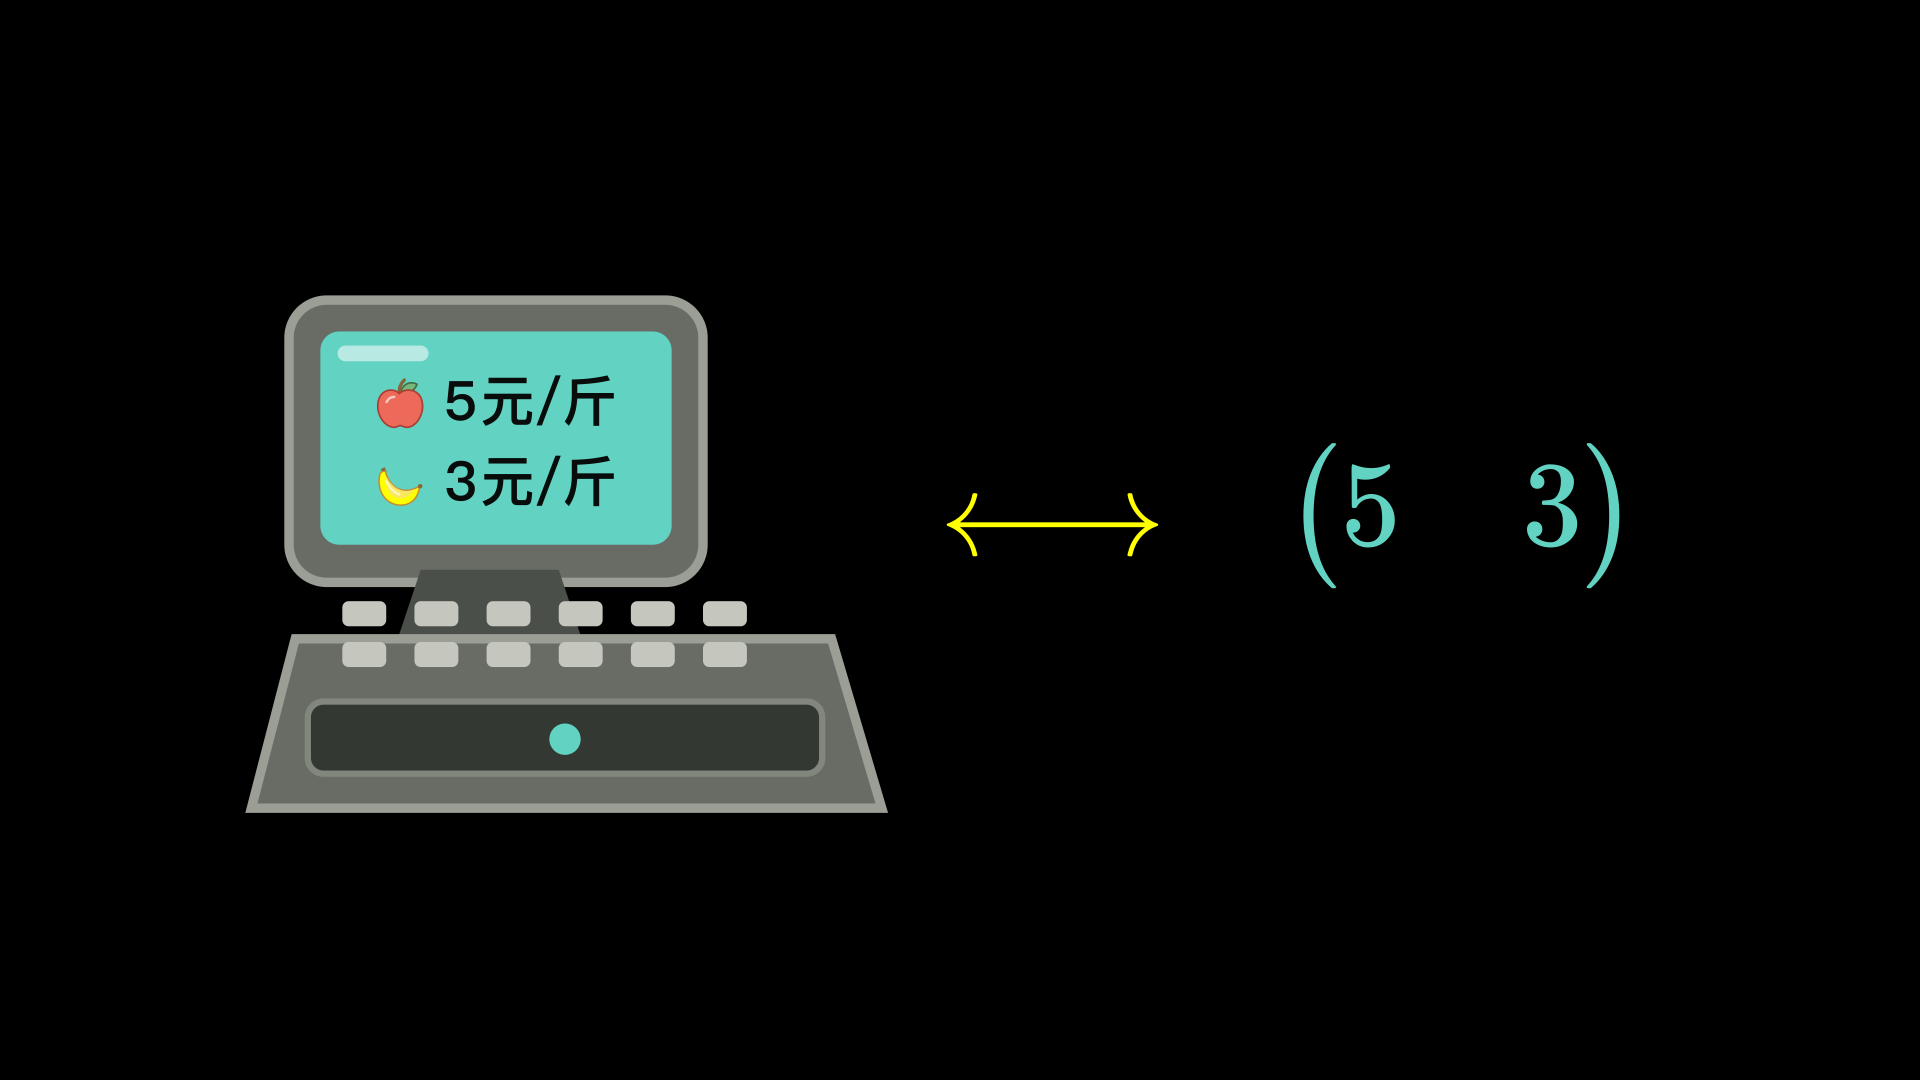
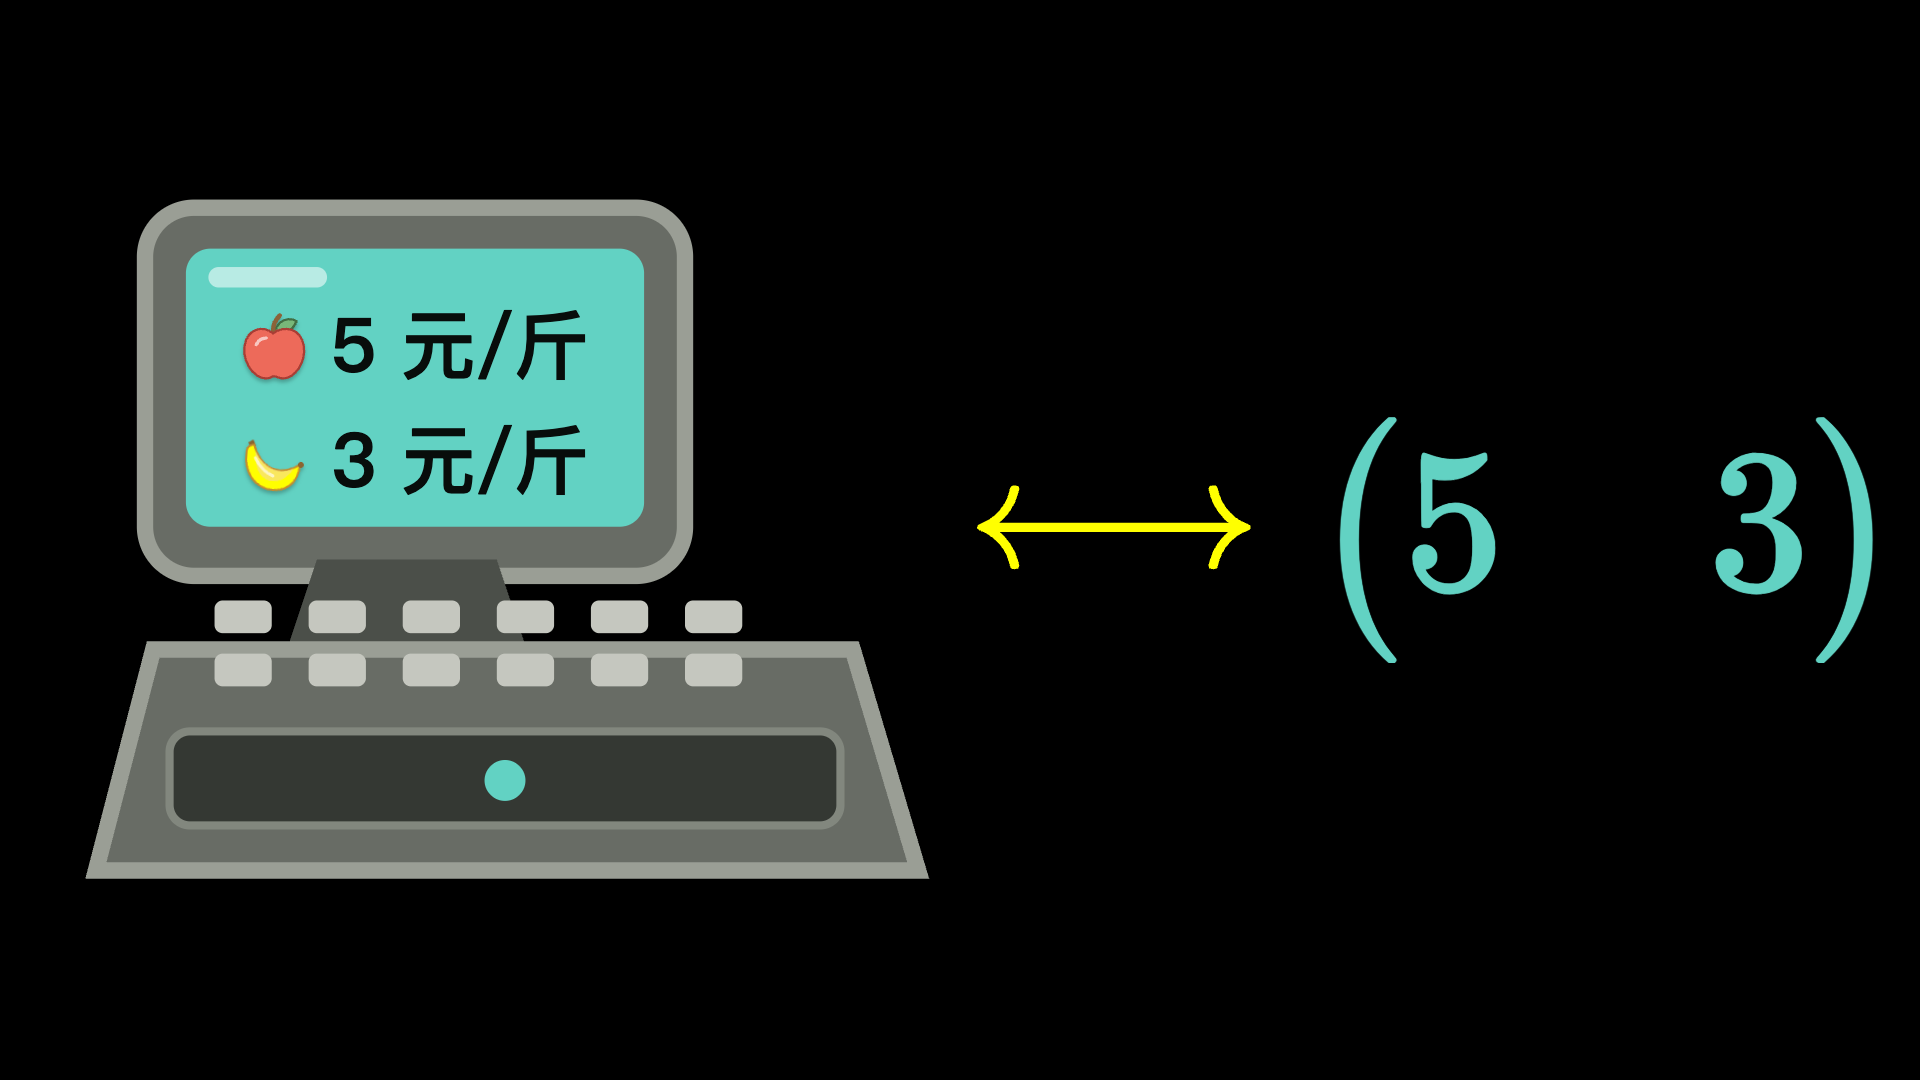
Add PNG video covers built from Scene components
Covers are authored as `cover/Cover.tsx` plus `cover/cover.css` in each
subproject, reusing existing components so the thumbnail stays in sync
with the teaching graphics. The entry point loads the cover only when
`?cover=1` is present, keeping cover styles out of the normal player.

Add `scripts/export-cover.mjs` to build, preview, verify (KaTeX, fonts,
object bounds, scrolling, console) and screenshot a 1920x1080 PNG, and
expose it as `npm run cover:export` in each project. Usage is documented
in `docs/video-covers.md`.

Changed region(s): [[0.0312, 0.1833, 0.5, 0.825], [0.5, 0.3972, 0.8438, 0.6111], [0.875, 0.3972, 1.0, 0.6111]]

diff --git a/basis-coordinates/cover/cover.css b/basis-coordinates/cover/cover.css
@@ -1,0 +1,23 @@
+/* 封面只负责构图，图形外观由现有 Scene 组件提供。 */
+.cover-preview { position:fixed; inset:0; display:grid; place-items:center; background:#000; }
+.cover-frame { position:relative; width:min(100vw, calc(100vh * 16 / 9)); aspect-ratio:16 / 9; container-type:inline-size; }
+.video-cover { --coral:#ed6a5a; --yellow:#ffff00; position:absolute; width:1920px; height:1080px; background:#000; color:#f4efe1; transform:scale(calc(100cqw / 1920px)); transform-origin:top left; }
+.video-cover *, .video-cover *::before, .video-cover *::after { animation:none !important; transition:none !important; }
+.video-cover .cover-space { position:absolute; border:3px solid; border-radius:50%; }
+.video-cover .cover-space-label { position:absolute; left:50%; top:-65px; transform:translateX(-50%); padding:0 24px; background:#000; font-size:82px; }
+.video-cover .cover-bags { color:#ffff00; border-color:#ffff00a6; }
+.video-cover .cover-checkouts { color:#62d2c3; border-color:#62d2c3a6; }
+.video-cover .cover-object { position:absolute; display:grid; place-items:center; }
+.video-cover .checkout-icon { width:100%; max-width:none; }
+.row-vector-cover .cover-machine { position:absolute; left:55px; top:175px; width:900px; }
+.row-vector-cover .probe-prices { left:146.7px; top:125.2px; width:422.6px; gap:22px; color:#080d0b; }
+.row-vector-cover .probe-price { gap:22px; font-size:62px; }
+.row-vector-cover .probe-prices .fruit { width:72px; height:72px; }
+/* 只覆盖屏幕内的文字字体，右侧行向量仍使用 KaTeX 数学字体。 */
+.row-vector-cover .probe-price .katex .textbf { font-family:"PingFang SC", "Noto Sans CJK SC", "Microsoft YaHei", sans-serif; font-weight:700; }
+.row-vector-cover .cover-correspondence { position:absolute; left:970px; top:425px; font-size:128px; color:#ffff00; }
+.row-vector-cover .cover-row { position:absolute; left:1310px; top:405px; font-size:168px; color:#62d2c3; }
+
+.row-vector-cover .cover-correspondence .katex { -webkit-text-stroke:3px currentColor; }
+.row-vector-cover .cover-row .katex { -webkit-text-stroke:2px currentColor; }
+.row-vector-cover .checkout-screen-shell, .row-vector-cover .checkout-body { stroke-width:4px; }

diff --git a/double-dual/cover/cover.css b/double-dual/cover/cover.css
@@ -1,0 +1,23 @@
+/* 封面只负责构图，图形外观由现有 Scene 组件提供。 */
+.cover-preview { position:fixed; inset:0; display:grid; place-items:center; background:#000; }
+.cover-frame { position:relative; width:min(100vw, calc(100vh * 16 / 9)); aspect-ratio:16 / 9; container-type:inline-size; }
+.video-cover { --coral:#ed6a5a; --yellow:#ffff00; position:absolute; width:1920px; height:1080px; background:#000; color:#f4efe1; transform:scale(calc(100cqw / 1920px)); transform-origin:top left; }
+.video-cover *, .video-cover *::before, .video-cover *::after { animation:none !important; transition:none !important; }
+.video-cover .cover-space { position:absolute; border:10px solid; border-radius:50%; }
+.video-cover .cover-space-label { position:absolute; left:50%; top:-118px; transform:translateX(-50%); padding:0 30px; background:#000; font-size:150px; }
+.video-cover .cover-bags { color:#ffff00; border-color:#ffff00; }
+.video-cover .cover-checkouts { color:#62d2c3; border-color:#62d2c3; }
+.video-cover .cover-object { position:absolute; display:grid; place-items:center; }
+.video-cover .checkout-icon { width:100%; max-width:none; }
+.double-dual-cover .cover-space { top:260px; width:560px; height:650px; border-radius:48%; }
+.double-dual-cover .cover-mystery { color:#ba91ef; border-color:#ba91ef; }
+.double-dual-cover .cover-object { inset:100px 45px 45px; }
+.double-dual-cover .fruit-bag { transform:scale(1.85); }
+.double-dual-cover .checkout-icon { width:435px; }
+.double-dual-cover .cover-question { font-size:360px; font-weight:700; }
+
+/* 320px 缩略图下仍保留清晰轮廓；仅增强封面，不改 Scene。 */
+.video-cover .cover-space-label .katex { -webkit-text-stroke:1.5px currentColor; }
+.video-cover .fruit-bag { border-width:6px; border-top:0; }
+.video-cover .bag-handle { border-width:6px; border-bottom:0; }
+.video-cover .checkout-screen-shell, .video-cover .checkout-body { stroke-width:4px; }

diff --git a/dual-space/cover/cover.css b/dual-space/cover/cover.css
@@ -1,0 +1,21 @@
+/* 封面只负责构图，图形外观由现有 Scene 组件提供。 */
+.cover-preview { position:fixed; inset:0; display:grid; place-items:center; background:#000; }
+.cover-frame { position:relative; width:min(100vw, calc(100vh * 16 / 9)); aspect-ratio:16 / 9; container-type:inline-size; }
+.video-cover { --coral:#ed6a5a; --yellow:#ffff00; position:absolute; width:1920px; height:1080px; background:#000; color:#f4efe1; transform:scale(calc(100cqw / 1920px)); transform-origin:top left; }
+.video-cover *, .video-cover *::before, .video-cover *::after { animation:none !important; transition:none !important; }
+.video-cover .cover-space { position:absolute; border:10px solid; border-radius:50%; }
+.video-cover .cover-space-label { position:absolute; left:50%; top:-118px; transform:translateX(-50%); padding:0 30px; background:#000; font-size:150px; }
+.video-cover .cover-bags { color:#ffff00; border-color:#ffff00; }
+.video-cover .cover-checkouts { color:#62d2c3; border-color:#62d2c3; }
+.video-cover .cover-object { position:absolute; display:grid; place-items:center; }
+.video-cover .checkout-icon { width:100%; max-width:none; }
+.dual-space-cover .cover-space { top:175px; width:820px; height:820px; }
+.dual-space-cover .cover-bag { width:320px; height:285px; }
+.dual-space-cover .cover-bag > .fruit-bag { transform:scale(1.4); }
+.dual-space-cover .cover-checkout { width:325px; height:285px; }
+
+/* 320px 缩略图下仍保留清晰轮廓；仅增强封面，不改 Scene。 */
+.video-cover .cover-space-label .katex { -webkit-text-stroke:1.5px currentColor; }
+.video-cover .fruit-bag { border-width:6px; border-top:0; }
+.video-cover .bag-handle { border-width:6px; border-bottom:0; }
+.video-cover .checkout-screen-shell, .video-cover .checkout-body { stroke-width:4px; }

diff --git a/basis-coordinates/scenes/CheckoutBasisScene.tsx b/basis-coordinates/scenes/CheckoutBasisScene.tsx
@@ -1,12 +1,12 @@
 import { CheckoutIcon } from "../components/CheckoutIcon";
 import { FruitBag } from "../components/FruitBag";
-import { FruitIcon } from "../components/FruitIcon";
+import { UnitPrices } from "../components/UnitPrices";
+import { basisPrices as prices } from "../lib/math/prices";
 import { MathFormula } from "../components/MathFormula";
 import { basis, type Bag } from "../lib/math/bags";
 import type { SceneProps } from "../lib/scenes/types";
 import "./CheckoutBasisScene.css";
 
-const prices = { apples: 5, bananas: 3 };
 const quote = (bag: Bag) => bag.apples * prices.apples + bag.bananas * prices.bananas;
 const u = { apples: 2, bananas: 1 }, v = { apples: 1, bananas: 2 };
 function Transaction({ bag }: { bag: Bag }) {
@@ -34,12 +34,7 @@ export function CheckoutBasisScene({ step }: SceneProps) {
       </div>
     </div> : <>
       <div className="probe-machine"><CheckoutIcon accent="#62d2c3" largeScreen />
-        {step >= 2 && <div className="probe-prices" data-role="internal-prices">
-          {(["apple", "banana"] as const).map((kind, index) => <div className="probe-price" key={kind} data-role={`unit-price-${kind}`}>
-            <span className={`fruit ${kind}`}><FruitIcon kind={kind} /></span>
-            <MathFormula latex={`${step >= (index === 0 ? 5 : 8) ? Object.values(prices)[index] : "?"}\\,\\text{元/斤}`} />
-          </div>)}
-        </div>}
+        {step >= 2 && <UnitPrices apples={step >= 5 ? prices.apples : null} bananas={step >= 8 ? prices.bananas : null} />}
         {step >= 3 && <>
         <div className="probe-tray" data-role="checkout-tray" />
         <div className="probe-tray-bag probe-basis-bag" key={second ? "second" : "first"} data-role="probe-bag" data-basis={second ? "2" : "1"}>

diff --git a/dual-space/cover/Cover.tsx b/dual-space/cover/Cover.tsx
@@ -1,0 +1,26 @@
+import { FruitBag } from "../scenes/FruitBag";
+import { CheckoutIcon } from "../components/CheckoutIcon";
+import { MathFormula } from "../components/MathFormula";
+import "./cover.css";
+
+// 位置采用 1920×1080 设计坐标；组件自身的大小与配色来自教学页面。
+const positions = [{ x: 220, y: 285 }, { x: 580, y: 285 }, { x: 400, y: 610 }];
+const accents = ["#62d2c3", "#77aee9", "#ba91ef"];
+export default function Cover() {
+  return <div className="cover-preview"><div className="cover-frame">
+    <main className="video-cover dual-space-cover" data-role="video-cover" aria-label="对偶空间封面">
+      <div className="cover-space cover-bags" style={{ left: 70 }}>
+        <div className="cover-space-label"><MathFormula latex="V" /></div>
+        {positions.map(({ x, y }, index) => <div className="cover-object cover-bag" data-cover-object="bag" key={index} style={{ left: x - 160, top: y - 142.5 }}>
+          <FruitBag apples={2} bananas={1} />
+        </div>)}
+      </div>
+      <div className="cover-space cover-checkouts" style={{ left: 1030 }}>
+        <div className="cover-space-label"><MathFormula latex={"V^*"} /></div>
+        {positions.map(({ x, y }, index) => <div className="cover-object cover-checkout" data-cover-object="checkout" key={index} style={{ left: x - 162.5, top: y - 142.5 }}>
+          <CheckoutIcon accent={accents[index]} />
+        </div>)}
+      </div>
+    </main>
+  </div></div>;
+}

diff --git a/double-dual/cover/Cover.tsx b/double-dual/cover/Cover.tsx
@@ -1,0 +1,23 @@
+import { FruitBag } from "../components/FruitBag";
+import { CheckoutIcon } from "../components/CheckoutIcon";
+import { MathFormula } from "../components/MathFormula";
+import "./cover.css";
+
+export default function Cover() {
+  return <div className="cover-preview"><div className="cover-frame">
+    <main className="video-cover double-dual-cover" data-role="video-cover" aria-label="双对偶空间封面">
+      <div className="cover-space cover-bags" style={{ left:60 }}>
+        <div className="cover-space-label"><MathFormula latex="V" /></div>
+        <div className="cover-object" data-cover-object="bag"><FruitBag apples={2} bananas={1} /></div>
+      </div>
+      <div className="cover-space cover-checkouts" style={{ left:680 }}>
+        <div className="cover-space-label"><MathFormula latex={"V^*"} /></div>
+        <div className="cover-object" data-cover-object="checkout"><CheckoutIcon accent="#62d2c3" /></div>
+      </div>
+      <div className="cover-space cover-mystery" style={{ left:1300 }}>
+        <div className="cover-space-label"><MathFormula latex={"V^{**}"} /></div>
+        <div className="cover-object cover-question" data-cover-object="question">?</div>
+      </div>
+    </main>
+  </div></div>;
+}

diff --git a/basis-coordinates/cover/Cover.tsx b/basis-coordinates/cover/Cover.tsx
@@ -1,0 +1,19 @@
+import { CheckoutIcon } from "../components/CheckoutIcon";
+import { UnitPrices } from "../components/UnitPrices";
+import { MathFormula } from "../components/MathFormula";
+import { basisPrices } from "../lib/math/prices";
+import "../components/FruitBag.css";
+import "./cover.css";
+
+export default function Cover() {
+  return <div className="cover-preview"><div className="cover-frame">
+    <main className="video-cover row-vector-cover" data-role="video-cover" aria-label="行向量封面">
+      <div className="cover-machine" data-cover-object="checkout">
+        <CheckoutIcon accent="#62d2c3" largeScreen />
+        <UnitPrices {...basisPrices} bold />
+      </div>
+      <div className="cover-correspondence" data-cover-object="arrow"><MathFormula latex={"\\longleftrightarrow"} /></div>
+      <div className="cover-row" data-cover-object="row"><MathFormula latex={`\\begin{pmatrix}${basisPrices.apples}&${basisPrices.bananas}\\end{pmatrix}`} /></div>
+    </main>
+  </div></div>;
+}

diff --git a/basis-coordinates/components/UnitPrices.tsx b/basis-coordinates/components/UnitPrices.tsx
@@ -1,0 +1,21 @@
+import { FruitIcon } from "./FruitIcon";
+import { MathFormula } from "./MathFormula";
+import "./UnitPrices.css";
+
+// Scene 和封面共用显示结构；未知单价通过 null 表示。
+export function UnitPrices({ apples, bananas, bold = false }: {
+  apples: number | null; bananas: number | null; bold?: boolean;
+}) {
+  return <div className="probe-prices" data-role="internal-prices">
+    {(["apple", "banana"] as const).map((kind, index) => {
+      const value = [apples, bananas][index] ?? "?";
+      const latex = bold
+        ? `\\textbf{${value} 元/斤}`
+        : `${value}\\,\\text{元/斤}`;
+      return <div className="probe-price" key={kind} data-role={`unit-price-${kind}`}>
+        <span className={`fruit ${kind}`}><FruitIcon kind={kind} /></span>
+        <MathFormula latex={latex} />
+      </div>;
+    })}
+  </div>;
+}

diff --git a/basis-coordinates/scenes/CheckoutBasisScene.css b/basis-coordinates/scenes/CheckoutBasisScene.css
@@ -1,8 +1,5 @@
 .checkout-basis { position:relative; width:1440px; height:810px; color:#f0f0ed; }
 .probe-machine { position:absolute; left:400px; top:240px; width:460px; }
-.probe-prices { position:absolute; left:75px; top:64px; width:216px; display:grid; justify-content:center; gap:10px; color:#18211e; animation:probe-appear .6s both; }
-.probe-price { display:flex; align-items:center; gap:12px; font-size:30px; }
-.probe-prices .fruit { width:36px; height:36px; }
 /* 大小收银台共用同一套托盘与袋底坐标，缩放不改变接触关系。 */
 .probe-tray { position:absolute; left:383px; top:250px; width:224px; height:8px; background:#b6b9ad; border-radius:4px; }
 .probe-tray-bag { position:absolute; left:390px; top:60px; }

diff --git a/basis-coordinates/app/main.tsx b/basis-coordinates/app/main.tsx
@@ -4,4 +4,8 @@ import "katex/dist/katex.min.css";
 import "./globals.css";
 import App from "./App";
 
-createRoot(document.getElementById("root")!).render(<StrictMode><App /></StrictMode>);
+// 封面按需加载，封面样式不进入普通教学页面。
+const View = new URLSearchParams(location.search).has("cover")
+  ? (await import("../cover/Cover")).default
+  : App;
+createRoot(document.getElementById("root")!).render(<StrictMode><View /></StrictMode>);

diff --git a/double-dual/app/main.tsx b/double-dual/app/main.tsx
@@ -4,4 +4,8 @@ import "katex/dist/katex.min.css";
 import "./globals.css";
 import App from "./App";
 
-createRoot(document.getElementById("root")!).render(<StrictMode><App /></StrictMode>);
+// 封面按需加载，封面样式不进入普通教学页面。
+const View = new URLSearchParams(location.search).has("cover")
+  ? (await import("../cover/Cover")).default
+  : App;
+createRoot(document.getElementById("root")!).render(<StrictMode><View /></StrictMode>);

diff --git a/dual-space/app/main.tsx b/dual-space/app/main.tsx
@@ -4,4 +4,8 @@ import "katex/dist/katex.min.css";
 import "./globals.css";
 import App from "./App";
 
-createRoot(document.getElementById("root")!).render(<StrictMode><App /></StrictMode>);
+// 封面按需加载，封面样式不进入普通教学页面。
+const View = new URLSearchParams(location.search).has("cover")
+  ? (await import("../cover/Cover")).default
+  : App;
+createRoot(document.getElementById("root")!).render(<StrictMode><View /></StrictMode>);
